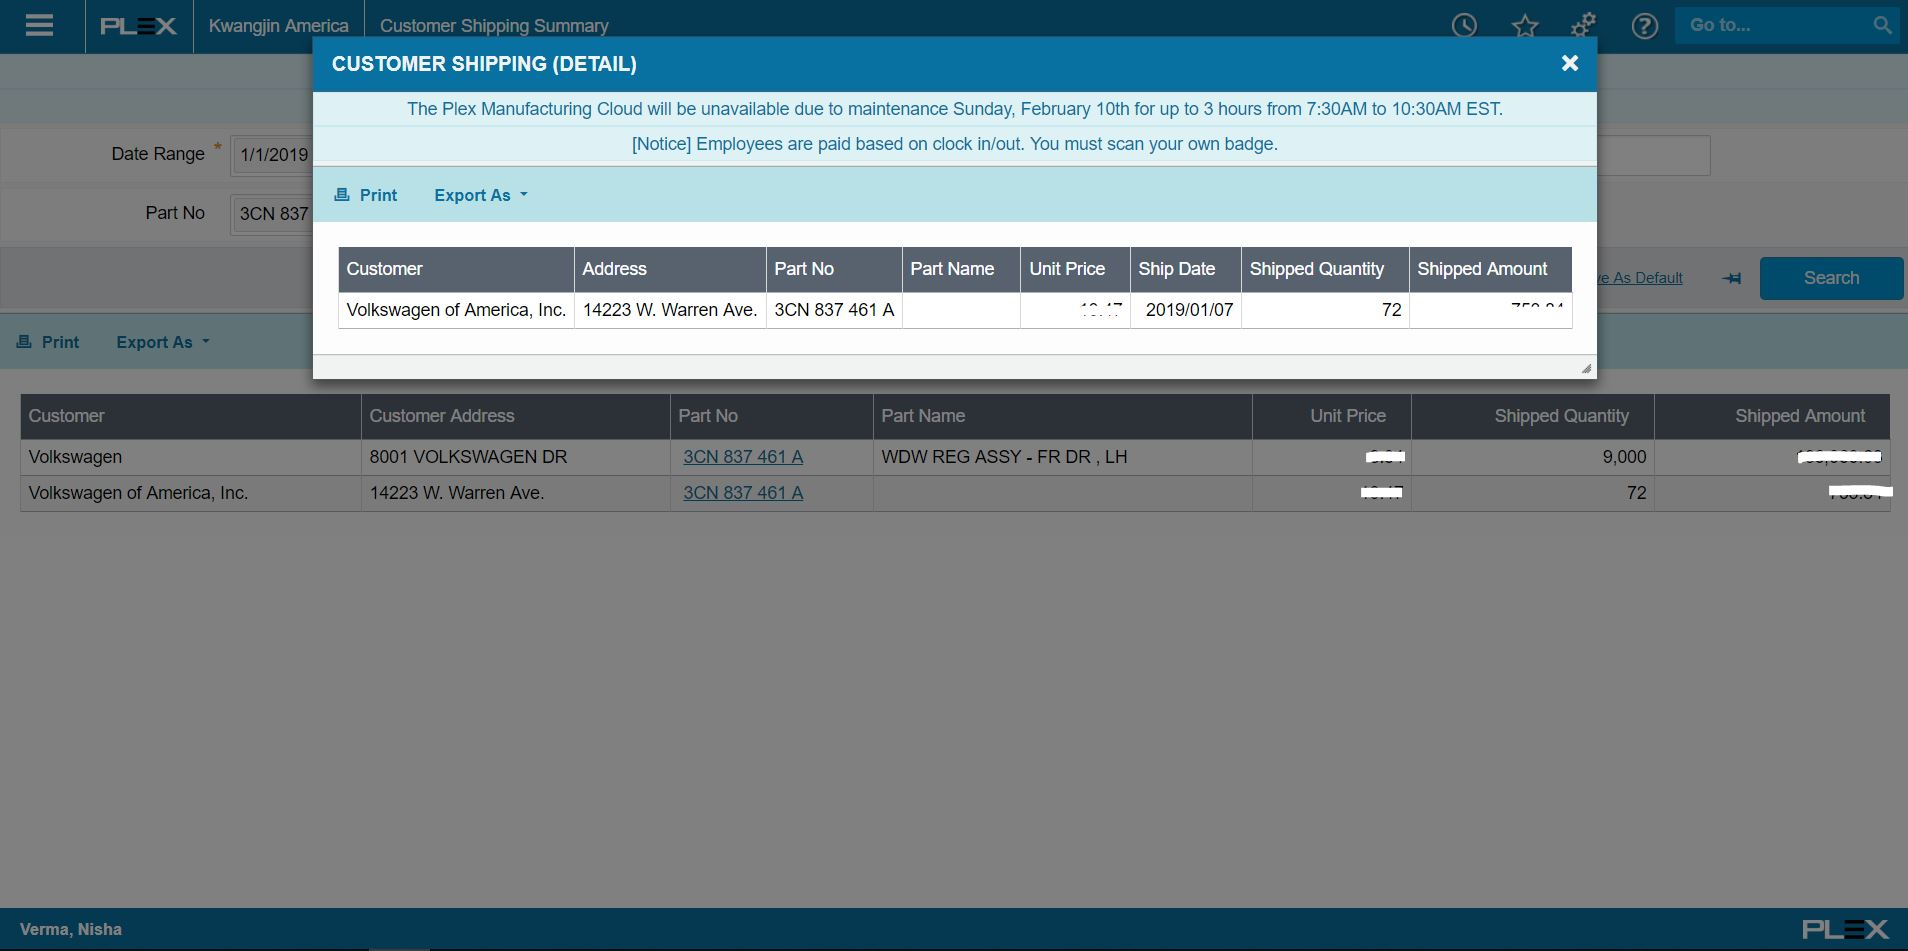
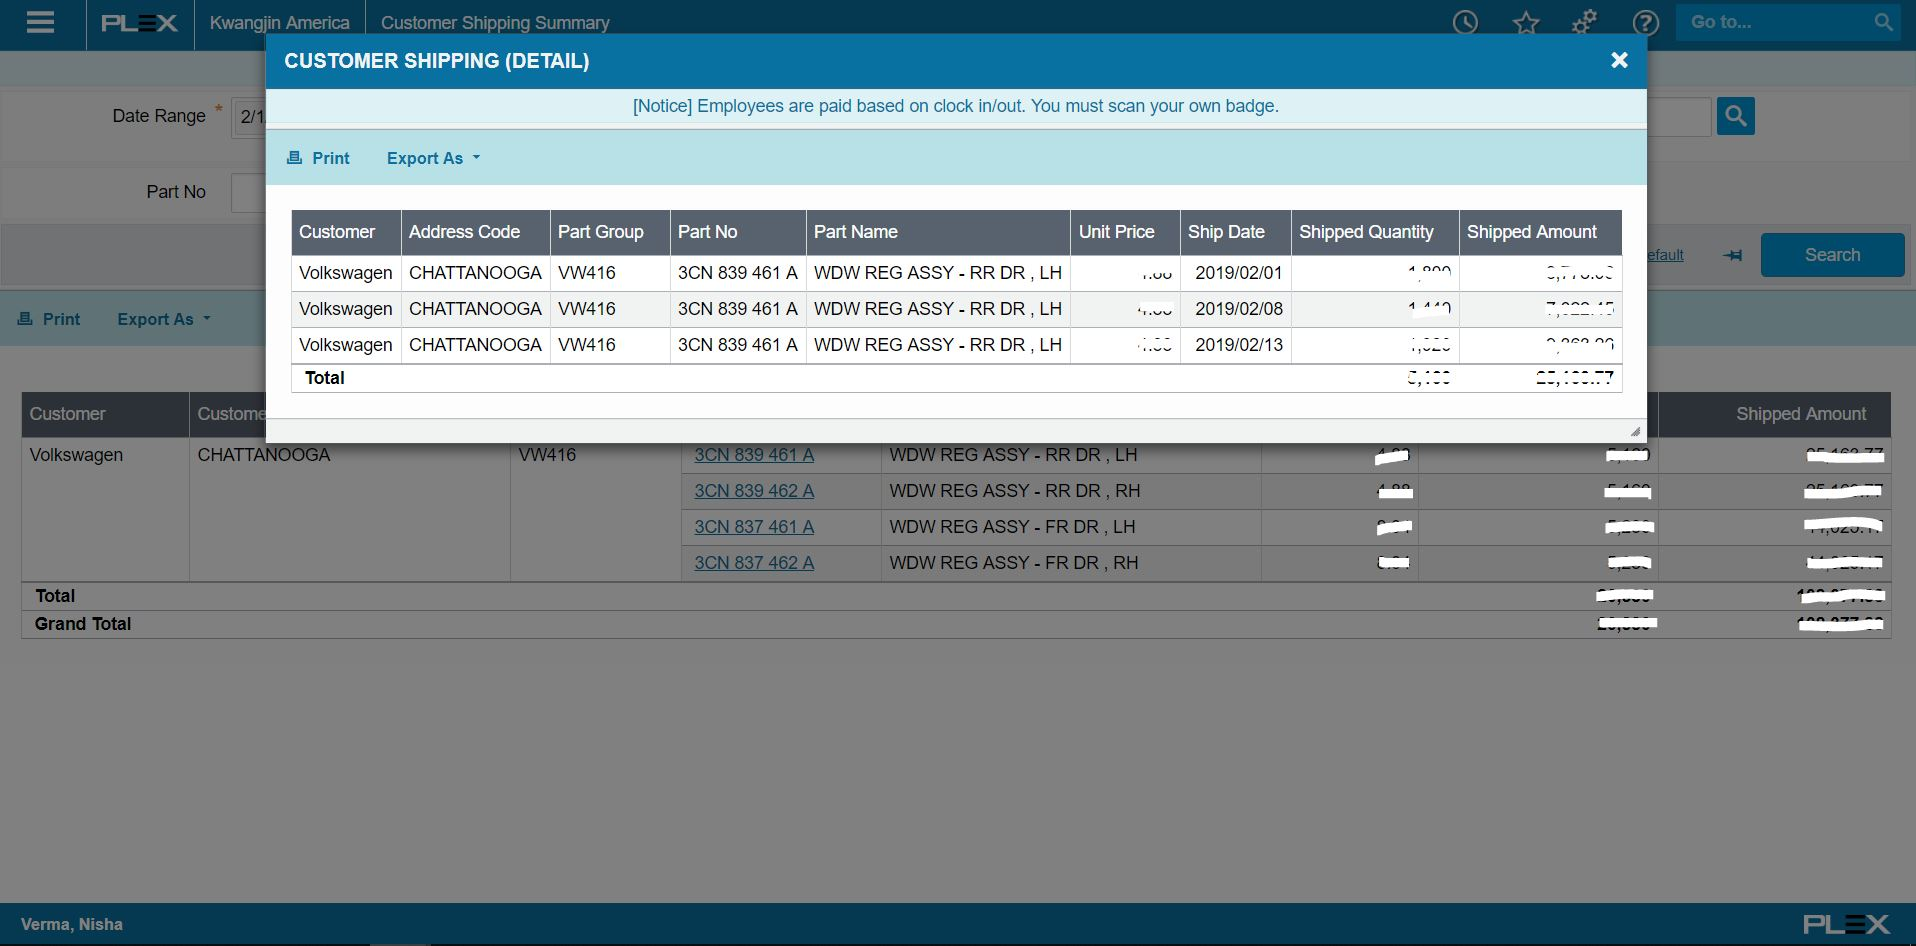
Updated Query

diff --git a/Report_6/README.md b/Report_6/README.md
@@ -1,4 +1,4 @@
 This report is written to display the Customer Shipping Summary. 
-A user can filter on Date(*required field), Customer, Customer Address and Part No. to quickly retreive the required information.
-This report opens a dialog window once a user clicks on the Part No link. A dialog window will display all the details including shipment date of Customer Shipping.
+A user can filter on Date(*required field), Customer, Customer Address, Part Group and Part No. to quickly retreive the required information.
+This report groups by customer which shows the total shipped quantity and shipped amount. Also, it opens a dialog window once a user clicks on the Part No link. A dialog window will display all the details including shipment date of Customer Shipping.
 
